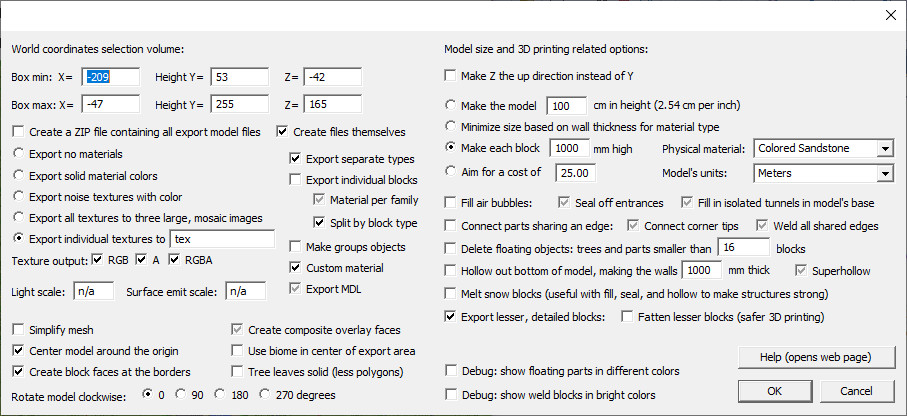
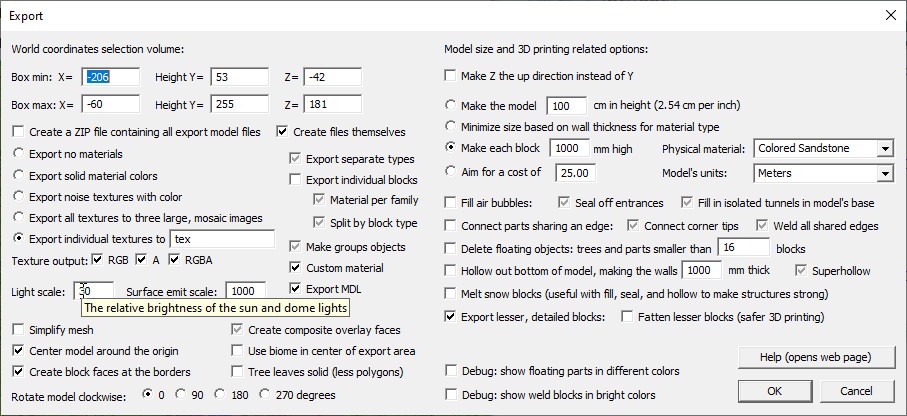
10.12

diff --git a/docs/index.html b/docs/index.html
@@ -72,7 +72,7 @@
 	</div>
 	
     <div id="content" class="clearfix">
-		<p><b><a href="https://erich.realtimerendering.com/minecraft/public/mineways/mineways.zip">Download Mineways 10.11 for Windows</a></b>. The full download includes eight converted resource packs (211 Mb), or <b><a href="https://erich.realtimerendering.com/minecraft/public/mineways/mineways_min.zip">download the Mineways minimal version</a></b>, which consists of just the program without any documentation, resource textures, scripting, etc. (3 Mb) - it may be all you need. You can also download individual files in the distribution from <a href="http://www.realtimerendering.com/erich/minecraft/public/mineways/files/">here</a>. Also available: <a href="MinewaysV1002_zh-cn.exe">Mineways 10.02 localized to Chinese</a> by Catmelon; <a href="https://github.com/Creeper553/Mineways_CNTrans">code repo here</a> Problems? <a href="downloads.html#windows">Get help here</a>.
+		<p><b><a href="https://erich.realtimerendering.com/minecraft/public/mineways/mineways.zip">Download Mineways 10.12 for Windows</a></b>. The full download includes eight converted resource packs (211 Mb), or <b><a href="https://erich.realtimerendering.com/minecraft/public/mineways/mineways_min.zip">download the Mineways minimal version</a></b>, which consists of just the program without any documentation, resource textures, scripting, etc. (3 Mb) - it may be all you need. You can also download individual files in the distribution from <a href="http://www.realtimerendering.com/erich/minecraft/public/mineways/files/">here</a>. Also available: <a href="MinewaysV1002_zh-cn.exe">Mineways 10.02 localized to Chinese</a> by Catmelon; <a href="https://github.com/Creeper553/Mineways_CNTrans">code repo here</a> Problems? <a href="downloads.html#windows">Get help here</a>.
 
 		<p>Mineways lets you export your creations from <a href="https://minecraft.gamepedia.com/Java_Edition">Minecraft: Java Edition</a>, versions 1.18 and earlier, into 3D files you can use for making images, movies, or 3D prints. Are you using a <a href="https://minecraft.gamepedia.com/Bedrock_Edition">Bedrock Edition</a> of Minecraft? You can <b><a href="mineways.html#mcpe">convert your world</a></b> so that Mineways can read it. 
 				
@@ -171,7 +171,7 @@
 	<div id="footer">
 		<hr>
 		<p>Webmaster: <a href="mailto:erich@acm.org">Eric Haines</a>, erich@acm.org - visit the <a href="contact.html">support page</a>
-		<br id="lastUpdate">Last updated 2/26/2023</p>
+		<br id="lastUpdate">Last updated 2/28/2023</p>
 	</div>
 </div>
 

diff --git a/docs/mineways.html b/docs/mineways.html
@@ -2757,6 +2757,14 @@ From newest to oldest. The very newest is sometimes unreleased work in progress,
 
 <UL>
 
+ <LI>Version 10.12, 2/28/2023 - <a href="https://erich.realtimerendering.com/minecraft/public/mineways/minewaysV1012.zip">exe</a>, <a href="https://github.com/erich666/Mineways/tags">source</a>.
+    <BR>
+    <UL>
+	<LI>Somewhere along the line exporting OBJ with no materials stopped working. Fixed <I>(Thanks, Biome, for the bug report)</I>.
+	<LI>Stopped a few illegal combinations in the export dialog and updated the image in the documentation.
+	<LI>During simplification, culled a few block material types a bit earlier in the process.
+	</UL>
+
  <LI>Version 10.11, 2/26/2023 - <a href="https://erich.realtimerendering.com/minecraft/public/mineways/minewaysV1011.zip">exe</a>, <a href="https://github.com/erich666/Mineways/tags">source</a>.
     <BR>
     <UL>
@@ -3952,7 +3960,7 @@ The Mineways program is <a href="https://github.com/erich666/Mineways">open sour
 	<div id="footer">
 		<hr>
 		<p>Webmaster: <a href="mailto:erich@acm.org">Eric Haines</a>, erich@acm.org - visit the <a href="contact.html">support page</a>
-		<br id="lastUpdate">Last updated 2/26/2023</p>
+		<br id="lastUpdate">Last updated 2/28/2023</p>
 	</div>
 </div>
 
